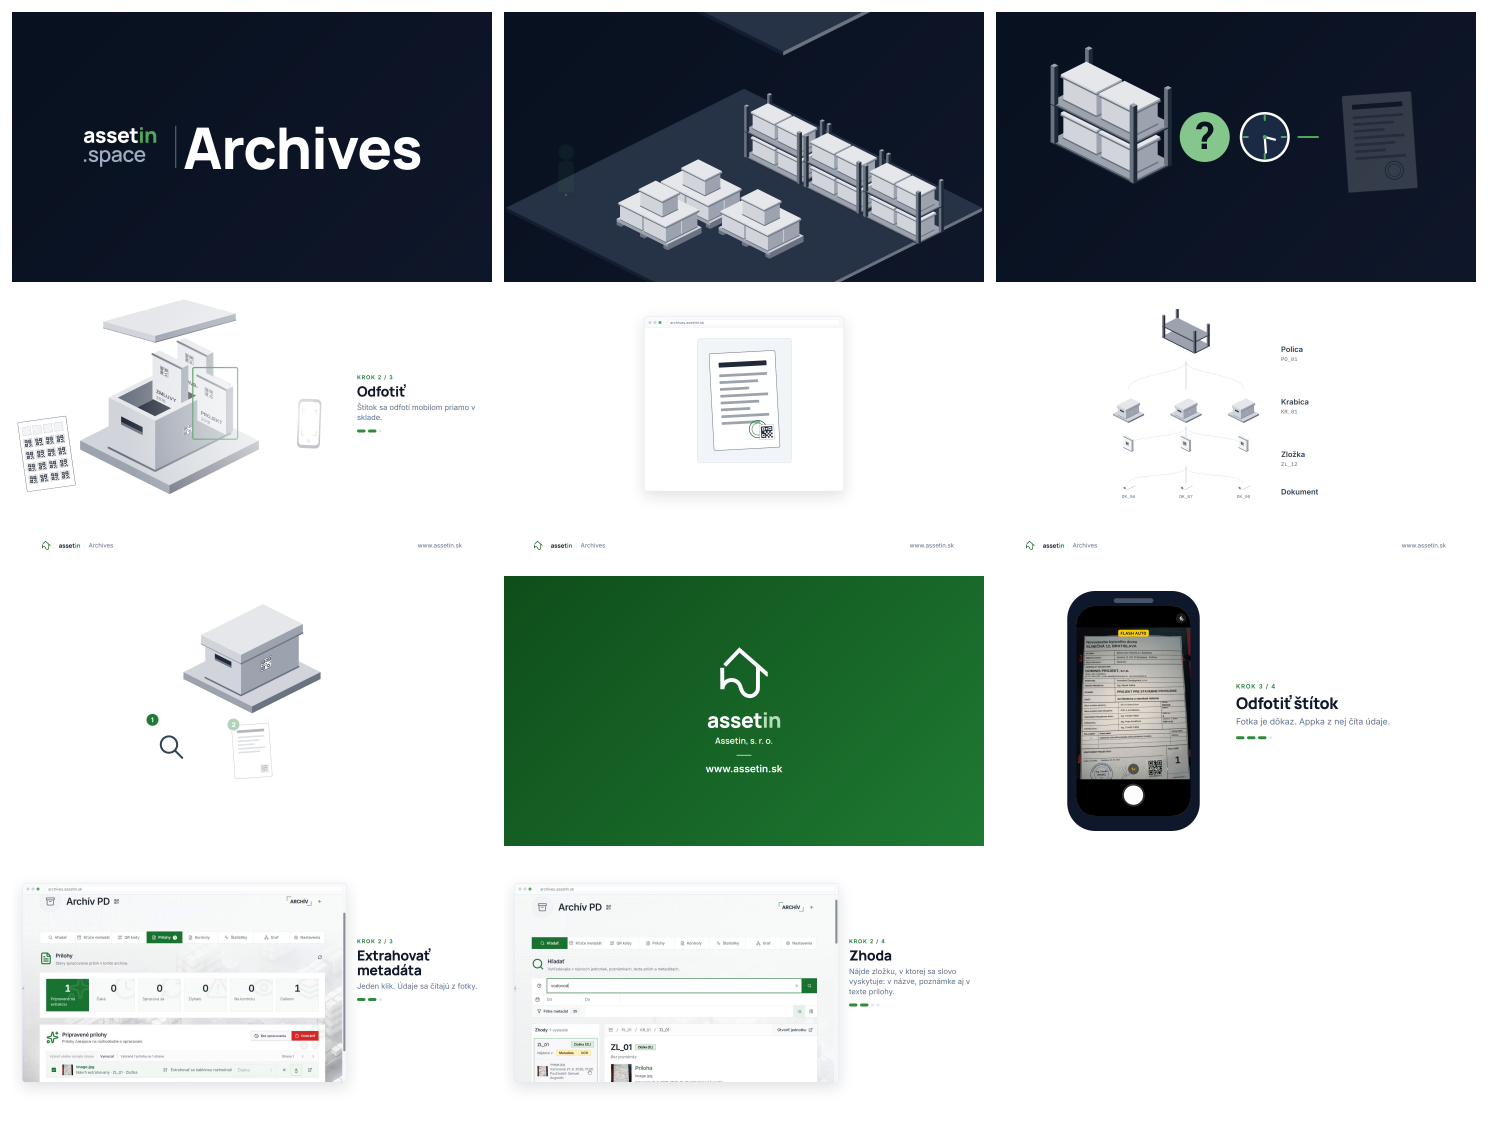
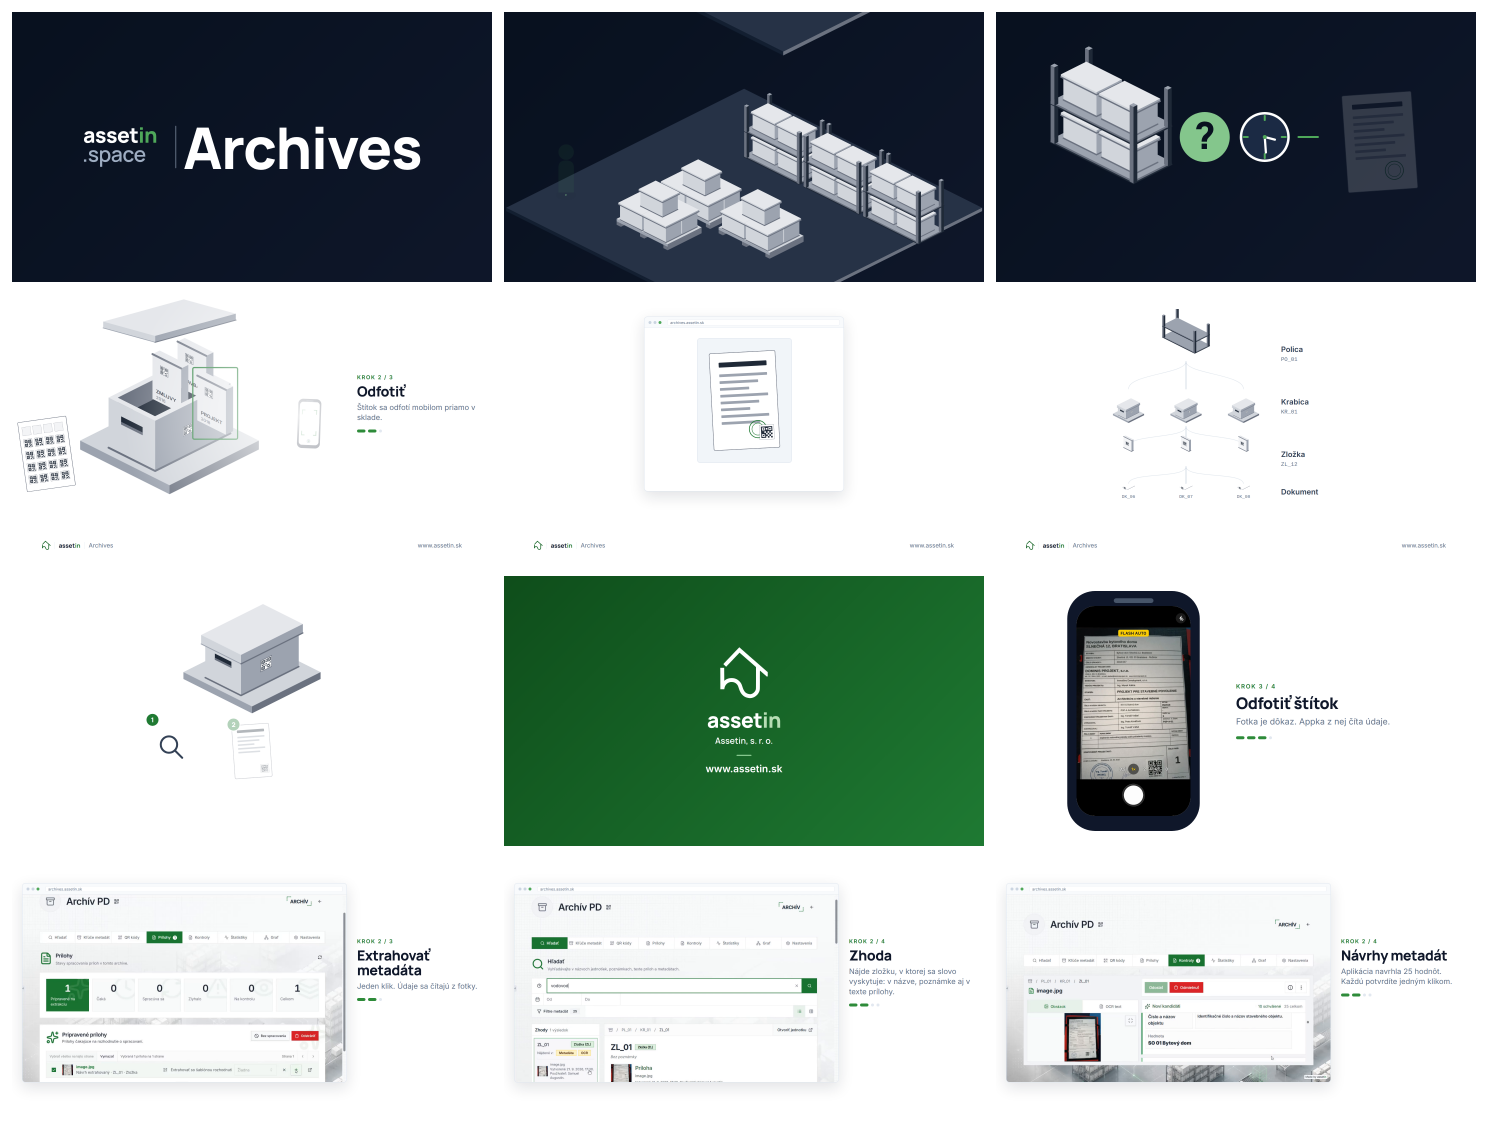
video: F4 Kontrola metadát (desktop footage, 15 s) za F2
Claude-Session: https://claude.ai/code/session_0174g5XfE49UzAEjnWwaQFuK

Changed region(s): [[0.6492, 0.8289, 0.9892, 0.9518], [0.711, 0.7982, 0.7419, 0.8289]]

diff --git a/video/src/scenesList.ts b/video/src/scenesList.ts
@@ -9,6 +9,7 @@ import { F1_Sken } from './scenes/F1_Sken';
 import { C6_Spracovanie } from './scenes/C6_Spracovanie';
 import { F2_Metadata } from './scenes/F2_Metadata';
 import { F3_Vyhladavanie } from './scenes/F3_Vyhladavanie';
+import { F4_Kontrola } from './scenes/F4_Kontrola';
 import { C7_Hierarchia } from './scenes/C7_Hierarchia';
 import { C8_Pilot } from './scenes/C8_Pilot';
 import { C9_Outro } from './scenes/C9_Outro';
@@ -26,6 +27,7 @@ export const SCENE_LIST: [string, SceneDef][] = [
   ['F1-Sken', { component: F1_Sken, seconds: 12.5, stills: [30, 200, 350] }],
   ['C6-Spracovanie', { component: C6_Spracovanie, seconds: 7, stills: [40, 110, 200] }],
   ['F2-Metadata', { component: F2_Metadata, seconds: 10.5, stills: [20, 110, 260] }],
+  ['F4-Kontrola', { component: F4_Kontrola, seconds: 15, stills: [30, 200, 420] }],
   ['C7-Hierarchia', { component: C7_Hierarchia, seconds: 12, stills: [15, 120, 230] }],
   ['F3-Vyhladavanie', { component: F3_Vyhladavanie, seconds: 12.5, stills: [30, 150, 340] }],
   ['C8-Pilot', { component: C8_Pilot, seconds: 7, stills: [50, 110, 180] }],

diff --git a/video/src/scenes/F4_Kontrola.tsx b/video/src/scenes/F4_Kontrola.tsx
@@ -1,0 +1,18 @@
+import React from 'react';
+import { Step } from '../components/Steps';
+import { DesktopFootageClip } from './F2_Metadata';
+
+/**
+ * F4 - Kontrola metadat (127 s zaznam "Review metadat - v2" zostrihany na 15 s):
+ * fotka stitku zblizka (0,5-2,5 s), prvy navrh a jeho prijatie (19-22 s),
+ * montaz dalsich prijati zrychlena 22x (22-88 s), rucna oprava hodnoty
+ * (93-97,5 s, 1,5x), Odoslat a prazdny zoznam kontrol (122,5-126,5 s).
+ */
+export const F4_SECONDS = 15;
+const F4_STEPS: Step[] = [
+  { from: 0, title: 'Fotka je dôkaz', line: 'Každý návrh sa kontroluje podľa fotky štítku.' },
+  { from: 2000, title: 'Návrhy metadát', line: 'Aplikácia navrhla 25 hodnôt. Každú potvrdíte jedným klikom.' },
+  { from: 8000, title: 'Oprava', line: 'Čo nesedí, opravíte priamo v návrhu.' },
+  { from: 11000, title: 'Odoslať', line: 'Až po kontrole človekom sú metadáta platné.' },
+];
+export const F4_Kontrola: React.FC = () => <DesktopFootageClip src="footage/f4-review.mp4" seconds={F4_SECONDS} steps={F4_STEPS} />;

diff --git a/video/STORYBOARD.md b/video/STORYBOARD.md
@@ -18,6 +18,7 @@ strihový bod pre footage; náhľad Full má tvrdé strihy. Titulky v obraze sú
 | F1-Sken 📹 | Footage: sken štítku | footage | Screen recording z mobilu (2 časti spojené): pridanie jednotky pod KR_01 → Priradiť QR → fotoaparát na štítok s QR → Use Photo → kontrola jednotky → Vytvoriť → nahrávanie prílohy 100 % (zrýchlené 4×). Orez presne na appku (bez líšt iOS/Safari, pomer rámika = pomer záznamu), mobil vľavo už stojí na mieste z C5, displej sa prelína z bielej do záznamu; vpravo sprievodný text po krokoch (Krok 1–4) s bodkami postupu; jemné zelené tapy na tlačidlách; fade do bielej (C6) | – | 12,5 s | ☐ ▶ |
 | C6-Spracovanie →📹 | Fotka → aplikácia | biela | Fotka štítku sa nahrá, okolo nej sa vykreslí okno aplikácie; okno prejde presne do okna footage vľavo (bez roztiahnutia cez frame) | 3 s „Text z fotky rozpozná a navrhne údaje.“ | 7 s | ☐ ▶ |
 | F2-Metadata 📹 | Footage: extrakcia metadát | footage | Desktop záznam (zostrih 10,5 s): prehľad príloh, výber prílohy, Extrahovať metadáta, dialog, stránka Kontroly s náhľadom a priebehom; okno vľavo, vpravo kroky Príloha čaká · Extrahovať metadáta · Návrh na kontrolu; fade do bielej | – | 10,5 s | ☐ ▶ |
+| F4-Kontrola 📹 | Footage: kontrola metadát | footage | Desktop záznam (zostrih 15 s z 2 min): fotka štítku zblízka, prvý navrhnutý údaj a jeho prijatie, montáž ďalších prijatí (22×), ručná oprava hodnoty, Odoslať a prázdny zoznam kontrol; okno vľavo, vpravo kroky Fotka je dôkaz · Návrhy metadát · Oprava · Odoslať; fade do bielej | – | 15 s | ☐ ▶ |
 | C7-Hierarchia →📹 | Hierarchia + sken | biela | Začína tou istou krabicou ako C5 (KR_01), kamera sa oddiali, vedľa sa objavia dve rovnaké krabice s medzerou a KR_01 sa do nej zaradí; nad ňou vyrastie prázdna polica (2 rady), pod ňou zložky a dokumenty; mobil naskenuje krabicu, vetva sa zvýrazní zelenou čiarou; kamera nájde späť na policu, krabice sa do nej poukladajú (všetky s menším QR); mobil vľavo hľadá a nájde KR_01 – tá krabica sa zvýrazní (obrys, značka), ostatné stmavnú; strom a mobil vyblednú, objaví sa okno aplikácie na mieste okna footage → desktop footage | 3 s „Každá položka má svoje miesto.“ | 12 s | ☐ ▶ |
 | F3-Vyhladavanie 📹 | Footage: vyhľadávanie | footage | Desktop záznam (zostrih 12,5 s): slovo „vodovod“, zhoda ZL_01, zoznam metadát so zvýraznenou zhodou (zrýchlené 2×), QR kód zložky; okno vľavo, vpravo kroky Hľadať · Zhoda · Metadáta · QR kód; fade do bielej | – | 12,5 s | ☐ ▶ |
 | C8-Pilot | Jedna krabica | biela | Bez zmeny (upraví sa neskôr) | 2 s „Začneme jednou krabicou.“ | 7 s | ☐ ▶ |
@@ -63,7 +64,7 @@ Všetko 1920×1080, 30 fps, H.264, yuv420p (obmedzený rozsah), bez zvuku.
 | Súbor | Obsah |
 |---|---|
 | `out/mp4/C1-Intro.mp4` … `C9-Outro.mp4` | klipy bez textu v obraze (titulky vypnuté, doriešia sa neskôr) |
-| `out/mp4/Full_1080p.mp4` | všetkých 9 klipov za sebou, tvrdé strihy, 108 s – kontrola tempa |
+| `out/mp4/Full_1080p.mp4` | všetkých 9 klipov za sebou, tvrdé strihy, 123 s – kontrola tempa |
 | `out/mp4/Full_preview_540p.mp4` | to isté v polovičnom rozlíšení |
 | `out/mp4/F_phone_enter.mp4`, `F_window_enter.mp4` | placeholder rámika zariadenia (8 s), do ktorého sa v Remotione dá vložiť footage |
 | `out/stills/contact-sheet.png` | stredný frame každého klipu v mriežke |

diff --git a/video/FEEDBACK.md b/video/FEEDBACK.md
@@ -177,4 +177,6 @@ Full 85 s.
 | F2 Extrakcia metadát | Screen recording z prehliadača „Extrakce metadat – v1“ (1920 × 1032, 36 s): prehľad príloh, výber prílohy, Extrahovať metadáta, dialog so šablónou, stránka Kontroly s náhľadom a priebehom spracovania (od 24 s statické 60 %). | Zostrih na 10,5 s: prehľad (3,0–4,5 s) + akcia (14,5–23,5 s); orez o lištu prehliadača (150 px) a bočný panel appky (400 px) → 1520 × 882. Zaradené za C6; C6 už nekončí roztiahnutím okna cez frame, okno prejde presne do okna footage vľavo (`FOOTAGE_WINDOW`, 1300 × 798). Vpravo kroky: Príloha čaká · Extrahovať metadáta · Návrh na kontrolu (texty na úpravu). Fade do bielej (C7). |
 | F3 Vyhľadávanie | Screen recording „Vyhladavanie – v3“ (16 s): zadanie slova „vodovod“, zhoda ZL_01, detail so zoznamom metadát a zvýraznenou zhodou, QR kód zložky. | Zostrih na 12,5 s: 0,5–7,5 s 1×, scroll metadát 7,5–14 s zrýchlený 2×, QR 14–16,2 s; rovnaký orez. Zaradené za C7; C7 už nekončí nájazdom do mobilu (footage je desktop): strom a mobil vyblednú a objaví sa okno aplikácie na mieste okna footage. Vpravo kroky: Hľadať · Zhoda · Metadáta · QR kód. Fade do bielej (C8). |
 
-Spoločný komponent `DesktopFootageClip` (okno vľavo + kroky vpravo) a `StepsPanel` (rovnaký jazyk krokov ako v C5 a F1). Full 108 s.
+| F4 Kontrola metadát | Screen recording „Review metadat – v2“ (2 min 7 s): fotka štítku zblízka, zoznam 25 navrhnutých hodnôt, každú používateľ prijme (zelená), jednu ručne opraví, Odoslať, prázdny zoznam kontrol. | Zostrih na 15 s: fotka (0,5–2,5 s) → prvý návrh a prijatie (19–22 s) → montáž ďalších prijatí zrýchlená 22× (22–88 s, počítadlo 1 → 17) → ručná oprava hodnoty (93–97,5 s, 1,5×) → Odoslať a prázdny zoznam (122,5–126,5 s). Zaradené za F2 (extrakcia → kontrola človekom → hierarchia). Vpravo kroky: Fotka je dôkaz · Návrhy metadát · Oprava · Odoslať. |
+
+Spoločný komponent `DesktopFootageClip` (okno vľavo + kroky vpravo) a `StepsPanel` (rovnaký jazyk krokov ako v C5 a F1). Full 123 s.

diff --git a/video/README.md b/video/README.md
@@ -92,9 +92,9 @@ Väčšia firma potrebuje Company License – pozri LICENSE v balíku `remotion`
 
 ## Footage
 
-`public/footage/` nie je v gite. Potrebné súbory: `f1-sken.mp4` (mobil, 884 × 1920), `f2-metadata.mp4` a `f3-search.mp4` (desktop, 1520 × 882, zostrihy z `Extrakce_metadat_-_v1.mp4` a `Vyhladavanie_-_v3.mp4`, orez 1520:882:400:150). Postup zostrihu je vo FEEDBACK.md.
+`public/footage/` nie je v gite. Potrebné súbory: `f1-sken.mp4` (mobil, 884 × 1920), `f2-metadata.mp4`, `f4-review.mp4` a `f3-search.mp4` (desktop, 1520 × 882, zostrihy z `Extrakce_metadat_-_v1.mp4`, `Review_metadat_-_v2.mp4` a `Vyhladavanie_-_v3.mp4`, orez 1520:882:400:150). Postup zostrihu je vo FEEDBACK.md.
 
 ## Verzie
 
-- **Verzia 2 (aktuálna, 108 s)**: C2-Hladanie nahrádza C2-Kancelaria + C3-Sklad.
+- **Verzia 2 (aktuálna, 123 s)**: C2-Hladanie nahrádza C2-Kancelaria + C3-Sklad.
 - **Verzia 1 (88,5 s)**: rendre v `out/mp4/v1/` a `out/stills/v1/`; scény ostávajú v `src/scenes/` (`V1_LIST` v `scenesList.ts`, `npm run stills`/`render` ich preskakujú).

diff --git a/video/VOICEOVER.md b/video/VOICEOVER.md
@@ -23,7 +23,7 @@ _(bez náhovoru)_
 - 4–7 s: _Nalepiť QR, odfotiť. Celá práca v teréne._ — „…a odfotí sa jej identifikačná strana. Stačí mobil alebo tablet.“
 - 7–10 s: „Fotka je dôkaz. Každý údaj sa kontroluje podľa nej.“ → footage: skenovanie a fotenie v appke
 
-## C6 · Spracovanie (7 s) →📹 okno aplikácie (F2 Extrakcia metadát, 10,5 s)
+## C6 · Spracovanie (7 s) →📹 okno aplikácie (F2 Extrakcia metadát 10,5 s → F4 Kontrola metadát 15 s: „Návrh nie je záznam. Konzultant každú hodnotu potvrdí podľa fotky, čo nesedí, opraví.“)
 - 0–3 s: „Fotka ide do aplikácie.“
 - 3–7 s: _Text z fotky rozpozná a navrhne údaje._ — „Text rozpozná automaticky a navrhne metadáta: stavbu, projektanta, rok, stupeň.“ → footage: OCR, návrh metadát, potvrdenie konzultantom („Návrh nie je záznam, platný je až po kontrole človekom.“)
 
